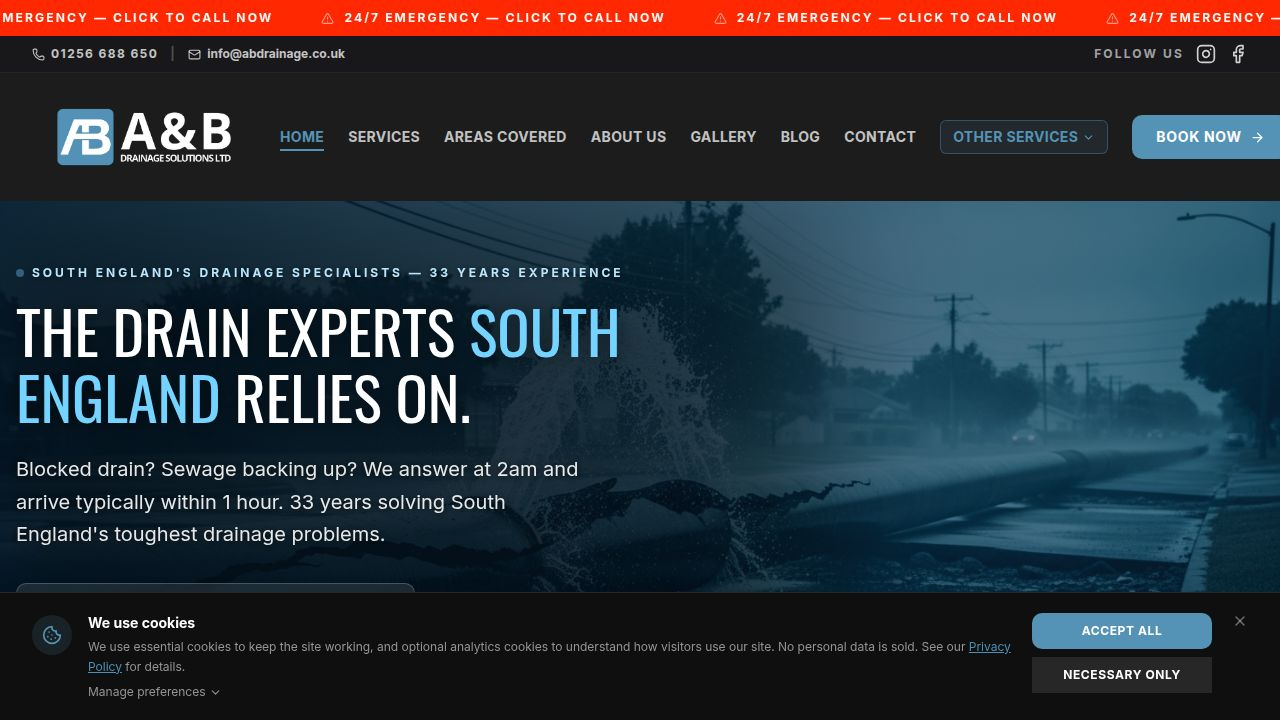
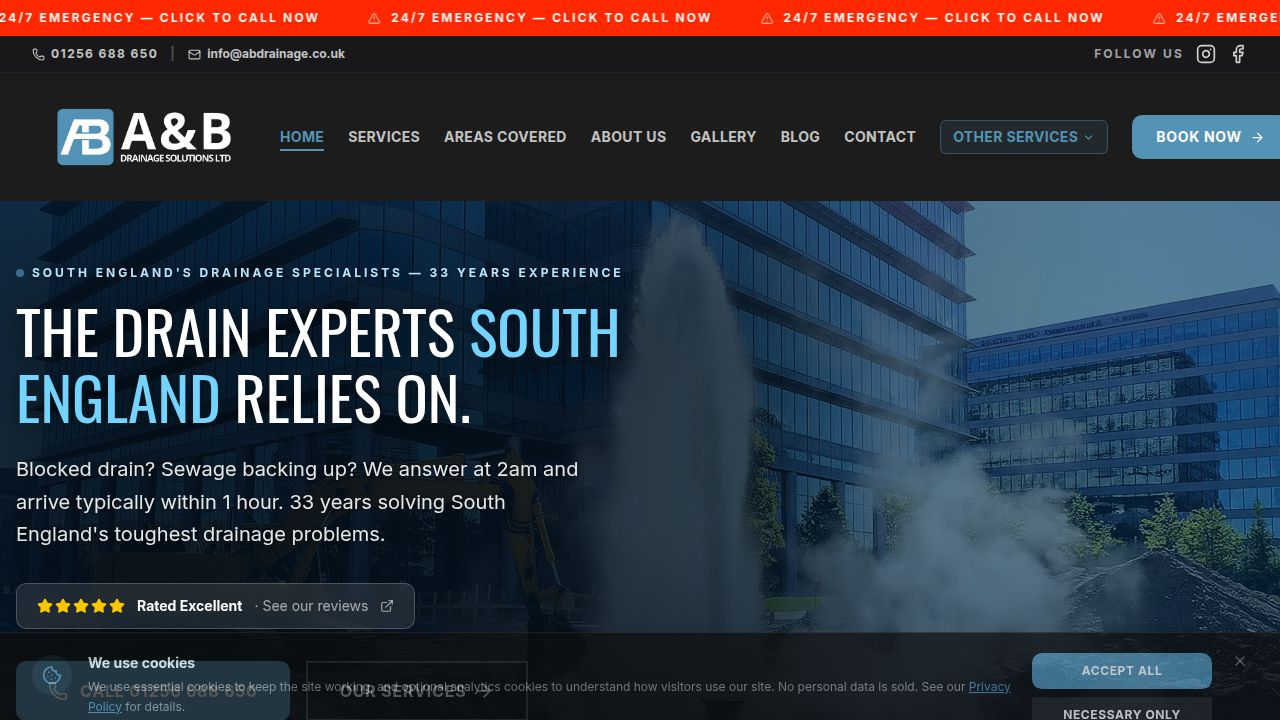
Update website transitions and visual elements for improved appearance
Modify the hero section's mobile display to use a flowing divider at the top of the subsequent section, ensuring a seamless visual transition and updating the component's prop comments.

Replit-Commit-Author: Agent
Replit-Commit-Session-Id: 94828390-7acc-4b80-9e6d-51a47824fa24
Replit-Commit-Checkpoint-Type: full_checkpoint
Replit-Commit-Event-Id: bf122ec9-480d-410d-b06a-b8e61b568a67
Replit-Commit-Screenshot-Url: https://storage.googleapis.com/screenshot-production-us-central1/6156495c-34bf-4539-a3b1-19835ffc592c/94828390-7acc-4b80-9e6d-51a47824fa24/2d3tjbA
Replit-Helium-Checkpoint-Created: true

diff --git a/artifacts/ab-drainage/src/components/PageHero.tsx b/artifacts/ab-drainage/src/components/PageHero.tsx
@@ -21,8 +21,9 @@ interface PageHeroProps {
   children?: ReactNode;
   /** Colour the base wave blends into — should match the next section's background. */
   waveFill?: string;
-  /** Optional separate wave colour for mobile when the following section differs by breakpoint.
-      The mobile wave renders as a single flat colour (no shimmer) so it blends seamlessly. */
+  /** Home-only flag: when set, the hero renders ONLY the desktop base wave and skips a
+      mobile hero wave — on mobile the flowing divider instead lives at the TOP of the
+      following section (see Home.tsx), so the hero ends cleanly on the dark photo. */
   waveFillMobile?: string;
   /** CSS object-position for the background image (e.g. "center", "50% 40%") to control fleet framing. */
   objectPosition?: string;
@@ -154,15 +155,11 @@ export function PageHero({
       </div>
 
       {waveFillMobile ? (
-        <>
-          {/* z-[11] (above the z-10 content layer) is deliberate: the heading's blurred
-              black legibility scrim (bg-black/40 blur-3xl) lives in the content layer and
-              its blur bleeds DOWN onto this light wave, multiplying #e0f2fe into grey at the
-              seam. Keeping the wave above the content prevents that darkening. No hero
-              content sits inside this bottom strip, so nothing important is covered. */}
-          <WaterWave className="absolute bottom-0 left-0 w-full z-[11] -mb-px md:hidden" fill={waveFillMobile} edgeColor={waveFillMobile} shimmer={false} heightClass="h-24" />
-          <WaterWave className="absolute bottom-0 left-0 w-full z-[5] -mb-px hidden md:block" fill={waveFill} />
-        </>
+        /* Home: on mobile the flowing divider now lives at the TOP of the next
+           (Trusted By) section — see Home.tsx — so the hero ends cleanly on the dark
+           photo with no empty light strip. Only the desktop wave (into the schedule
+           strip) renders here. */
+        <WaterWave className="absolute bottom-0 left-0 w-full z-[5] -mb-px hidden md:block" fill={waveFill} />
       ) : (
         <WaterWave className="absolute bottom-0 left-0 w-full z-[5] -mb-px" fill={waveFill} />
       )}

diff --git a/artifacts/ab-drainage/src/pages/Home.tsx b/artifacts/ab-drainage/src/pages/Home.tsx
@@ -228,6 +228,14 @@ export default function Home() {
         <WaterWave className="absolute bottom-0 left-0 w-full z-[5] -mb-px" fill="#e0f2fe" />
       </section>
 
+      {/* ── MOBILE-ONLY flowing divider INTO Trusted By ──
+           Rendered as a sibling (not inside the section, whose overflow-hidden would
+           clip it) so it can rise up over the bottom of the hero photo. -mt-20 pulls
+           it into the hero; sky-100 water crests over the dark image into the light
+           band, matching the flowing wave at the base of this section. Desktop uses
+           the schedule strip's wave above instead. */}
+      <WaterWave className="relative z-[5] w-full -mt-20 md:hidden" fill="#e0f2fe" edgeColor="#bae6fd" heightClass="h-20" />
+
       {/* ── TRUSTED BY (light band, animated wave at its base) ── */}
       <section className="relative bg-sky-100 pt-4 pb-28 overflow-hidden">
         <div className="container mx-auto px-4">

diff --git a/.agents/memory/ab-drainage-mobile-grey-seam.md b/.agents/memory/ab-drainage-mobile-grey-seam.md
@@ -1,42 +1,45 @@
 ---
 name: ab-drainage mobile grey seam (hero → Trusted By)
-description: Root cause + fix for the recurring grey band at the mobile hero/Trusted-By seam.
+description: Why the mobile hero→Trusted-By transition kept looking wrong, and the final layout that fixed it for good.
 ---
 
-# Recurring grey band at mobile hero → Trusted By seam
+# Mobile hero → Trusted By transition (Home)
 
-**Symptom:** On mobile only, a grey band (~rgb(185,199,208), i.e. #e0f2fe darkened ~18%)
-appears at the seam between the hero and the light-blue `bg-sky-100` (#e0f2fe) Trusted By
-section. Has recurred multiple times; earlier "fixes" kept relocating the grey.
+**History of the problem:** On mobile only, the seam between the hero and the light-blue
+`bg-sky-100` Trusted By section looked wrong — first a grey band, then an empty flat
+light-grey strip that read as a dead "empty section". Root cause of the grey tint was the
+hero heading's blurred black legibility scrim (`bg-black/40 blur-3xl`) bleeding DOWN onto a
+light `#e0f2fe` WaterWave that used to sit at the hero's bottom. Re-layering the wave above
+the scrim (z-[11]) killed the grey, but the light wave + hero bottom padding still read as an
+empty light strip the client disliked.
 
-**Confirmed root cause (via red-wave pixel probe):** The hero's mobile WaterWave is filled
-solid #e0f2fe (`waveFillMobile` on Home). The hero heading has a soft legibility scrim in
-PageHero — `div.absolute.-inset-x-8.-inset-y-10.bg-black/40.blur-3xl ... -z-10` — which lives
-inside the **z-10 content layer**. `blur-3xl` (~64px) makes its bottom edge bleed DOWN onto
-the wave. Because the wave was `z-[5]` (below the content layer), the black blur multiplied
-the light-blue wave into grey. On other pages the wave is dark (#01618E) so the same bleed is
-invisible — only Home's light mobile wave exposes it.
+**Final fix (the one that stuck):** stop drawing ANY wave at the bottom of the mobile hero.
+Let the dark hero photo run all the way to the section edge, then render the flowing divider
+as the TOP of the Trusted By section instead.
 
-**Why past fixes failed:** Adding a `#e0f2fe → transparent` fade/backing just moves the
-problem — ANY fade from light-blue into the dark hero renders as a grey-blue gradient.
-WaterWave's own fill is a flat opaque shape when `edgeColor === fill`; it is NOT the source.
+- PageHero: the `waveFillMobile` prop is now just a **Home-only flag** — when set, the hero
+  renders only the desktop base wave (`hidden md:block`) and NO mobile wave.
+- Home: a mobile-only (`md:hidden`) `WaterWave` is rendered as a **sibling immediately before**
+  the Trusted By `<section>`, with `relative -mt-20 h-20`, fill `#e0f2fe`, edgeColor `#bae6fd`.
+  The negative margin pulls it up so sky-100 water crests over the bottom of the dark hero
+  photo, matching the flowing wave at the base of that section.
 
-**Fix that works:** raise the mobile light wave above the content/scrim layer
-(`z-[5]` → `z-[11]`) so nothing composites over it. Verified: wave renders true #e0f2fe
-(224,242,254) at crest peaks AND troughs, clean hard edge to the dark hero, seamless into
-Trusted By. Also shortened h-32 → h-24 (keeps crest clear of stats). Safe because no hero
-content sits in the bottom wave strip.
+**Why a sibling, not inside the section:** the Trusted By section has `overflow-hidden`
+(needed for the logo marquee + its bottom wave), which would CLIP any inner top wave that
+tries to overlap the hero above it. A sibling with negative margin overlaps the hero without
+being clipped, and paints on top because it comes later in the DOM.
 
-**Why (principle):** a light-coloured wave/divider must sit ABOVE any blurred dark scrim in
-the hero, or the blur bleed darkens it into grey. Don't try to fix it with fades — fades over
-dark are grey by definition.
+**Desktop is untouched:** on desktop the Trusted By transition still comes from the schedule
+strip's `#e0f2fe` bottom wave (that strip is `hidden md:block`, i.e. mobile-hidden), so the
+new mobile sibling wave (`md:hidden`) and the desktop strip never both show.
 
-**Debugging tooling that worked:**
-- Preview proxy caches screenshot frames — change the viewport size (e.g. 412x1180 → 414x1180)
-  to bust the cache; identical byte-for-byte pixels across shots = stale cache, not "no change".
-- Sample seam colours with ImageMagick: `convert shot.jpg -format "%[pixel:p{x,y}]" info:`.
-- To locate/diagnose a wave overlay, temporarily set its fill to pure red and sample — if red
-  reads darker than 255, something semi-transparent is compositing over it.
-- The seam is below the fold (hero is min-h-[92vh]) and the fixed cookie banner (SiteNotice)
-  covers it; to capture it, temporarily disable SiteNotice + use a tall viewport (min-h alone
-  won't shrink the hero — its height is content-driven). Revert both after.
+**Principle:** a hero that is a PHOTO can't hand off to a solid-colour section with a solid
+wave without a visible seam. The trick that works is a wave filled with the DESTINATION
+(solid) colour rising UP into the photo — the photo shows through the transparent troughs, so
+the seam reads as organic water, not a mismatched band. Fades from light into the dark photo
+always render grey; don't use them.
+
+**Debugging note:** this seam sits at ~92vh, below the mobile fold, and the fixed cookie
+banner (SiteNotice) covers it. To screenshot it, use a very tall mobile viewport (e.g.
+402x2950) so 92vh pushes the seam just above the banner — or temporarily disable SiteNotice.
+Preview proxy caches frames: vary the viewport size between shots to bust the cache.

diff --git a/.agents/memory/MEMORY.md b/.agents/memory/MEMORY.md
@@ -11,7 +11,7 @@
 - [ab-drainage hero typography](ab-drainage-hero-typography.md) — all page hero H1s use font-light + md:text-6xl + tracking-normal (not heavy bold); display font (Oswald) never actually loads.
 - [ab-drainage home section differentiation](ab-drainage-home-sections.md) — adjacent dark home sections must differ in tone (services=neutral, why-choose=navy); WaterWave fill = next section's top color.
 - [ab-drainage hero video](ab-drainage-hero-video.md) — PageHero has separate gated mobile+desktop hero videos (only Home passes desktopVideo); generated 1080p clips are ~36MB, MUST ffmpeg-compress before import.
-- [ab-drainage mobile grey seam](ab-drainage-mobile-grey-seam.md) — grey band at mobile hero→Trusted seam is the hero's blurred black scrim bleeding onto the light wave; raise wave z above content layer.
+- [ab-drainage mobile grey seam](ab-drainage-mobile-grey-seam.md) — mobile hero ends on dark photo (no hero wave); flowing divider is a sibling WaterWave at TOP of Trusted By (overflow-hidden would clip an inner one).
 - [ab-drainage favicon/deploy](ab-drainage-favicon-deploy.md) — build/favicon verified correct; red favicon = browser cache (use ?v=N); outbound to live site blocked; worf.replit.dev is dev not live.
 - [ab-drainage canvas viewport](ab-drainage-canvas-viewport.md) — canvas iframe renders desktop (~1920px); user complaints from it are about DESKTOP; keep hero video transform-cover, not fit-width.
 - [ab-drainage marquee iOS glitch](ab-drainage-marquee-ios.md) — CSS mask-image + animated transform disappears on iOS Safari; use gradient overlay divs for edge fades instead.